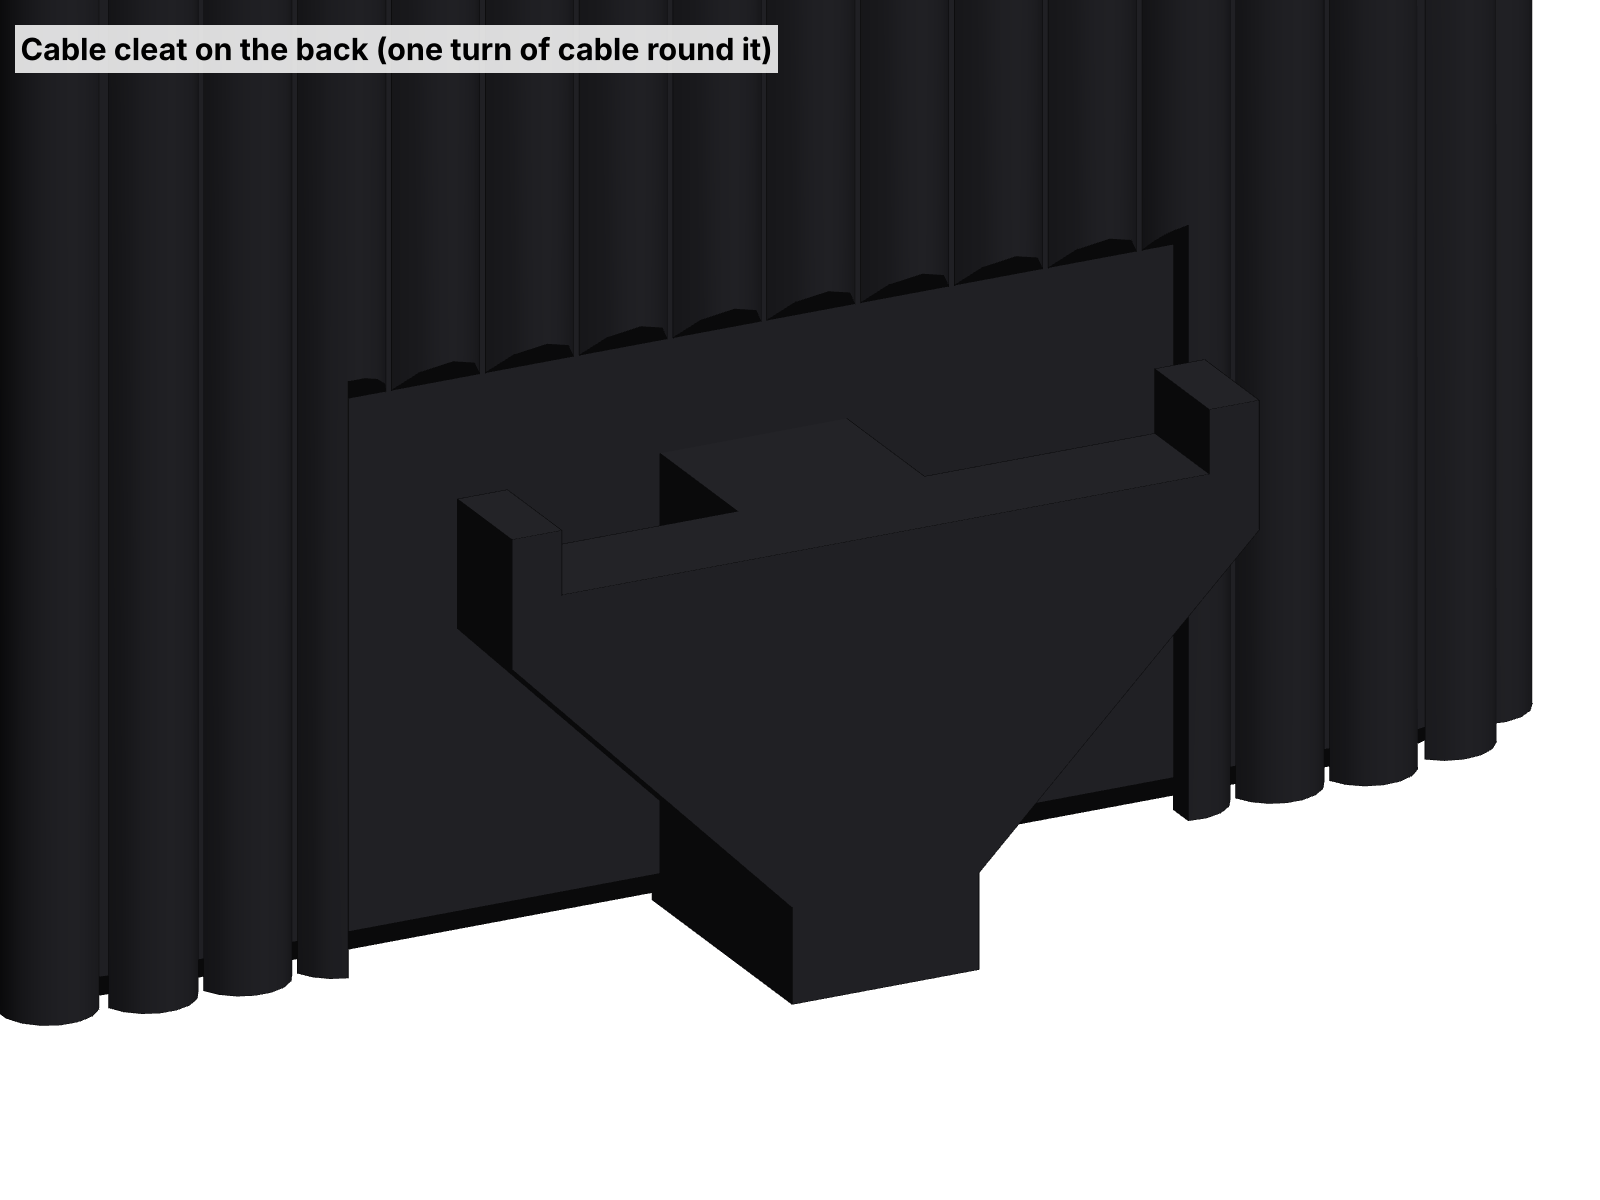
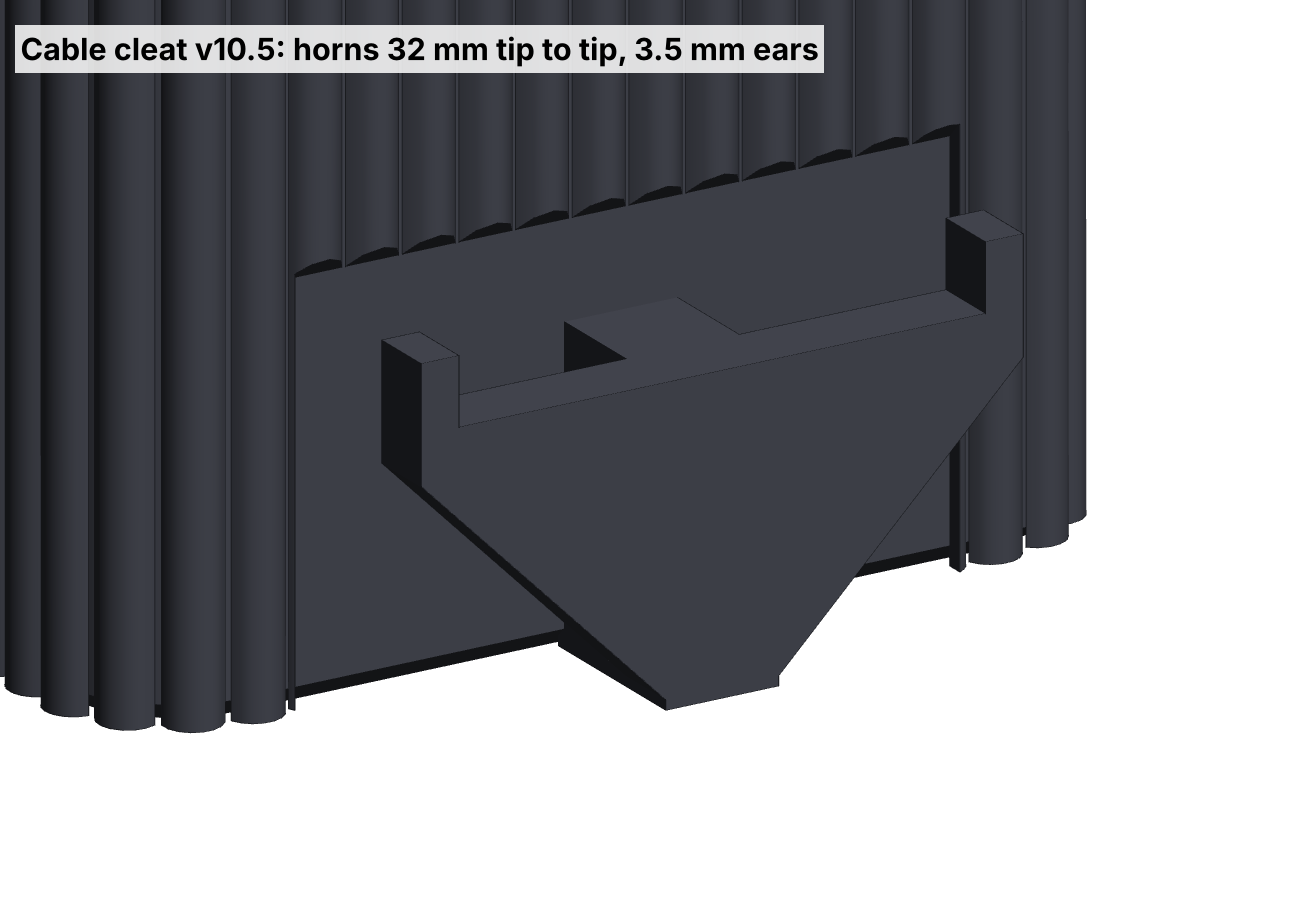
v10.5: bigger cable cleat horns (32 mm tip to tip, 3.5 mm ears, 5.5 mm gap)
Claude-Session: https://claude.ai/code/session_01LW7dNkPFWNphqvwFHeDcLz

diff --git a/enclosure/params.py b/enclosure/params.py
@@ -668,3 +668,11 @@ CARRIER_MARKING = True               # raised FRONT / USB-C arrows on the counte
 CARRIER_MARK_H = 0.4
 SWITCH_WALL_Y = 4.0                  # switch 4 mm back (still under the USB-C bay): room on both sides now
 SWITCH_MOUTH_CHAMFER = 0.6
+
+# ---- v10.5 (Paul): bigger cleat horns, more to hook the cable onto
+CLEAT_HORN_L = 13.0                  # each horn beyond the stem (was 9): 32 mm tip to tip
+CLEAT_EAR = 3.5                      # turned-up tip height (was 2)
+CLEAT_EAR_W = 2.0                    # turned-up tip width (was 1.6)
+CLEAT_GAP = 5.5                      # horns to wall (was 5)
+CLEAT_TIP_T = 2.5                    # horn depth at the tip (was 2)
+CLEAT_Z_TOP = 16.0                   # horn tops (was 14): keeps the 45 deg undersides off the desk

diff --git a/enclosure/lfcase/enclosure.py b/enclosure/lfcase/enclosure.py
@@ -1029,7 +1029,8 @@ def cable_cleat_features(b, zb):
         xr = xc + s_ * sw / 2
         xt = xr + s_ * hl
         # horn profile in XZ: top flat at zt (+ ear at the tip), underside rising 45 deg from the stem to the tip
-        prof = [(xr, zt - tip - hl), (xt, zt - tip), (xt, zt + ear), (xt - s_ * 1.6, zt + ear), (xt - s_ * 1.6, zt), (xr, zt)]
+        ew = getattr(P, "CLEAT_EAR_W", 1.6)
+        prof = [(xr, zt - tip - hl), (xt, zt - tip), (xt, zt + ear), (xt - s_ * ew, zt + ear), (xt - s_ * ew, zt), (xr, zt)]
         w = cq.Wire.makePolygon([cq.Vector(x, y1 + g, z) for x, z in prof], close=True)
         parts.append(cq.Solid.extrudeLinear(cq.Face.makeFromWires(w), cq.Vector(0, t, 0)))
     cleat = parts[0]

diff --git a/enclosure/CHANGELOG.md b/enclosure/CHANGELOG.md
@@ -1,5 +1,12 @@
 # Enclosure changelog
 
+## Phase 2 v10.5 (2026-11-11)
+- Paul: the cleat horns need to be bigger, with more to hook the cable onto. Horns 13 mm each side of the stem
+  (was 9), so 32 mm tip to tip (was 24). The turned-up ears are 3.5 mm tall x 2 mm (were 2 x 1.6). The gap behind
+  the horns for the cable is 5.5 mm (was 5), and the horn tips are 2.5 mm thick (were 2). The horn tops are at
+  16 mm (were 14) so the longer 45 deg undersides stay 0.5 mm off the desk. Prints with no support (checked on
+  the ribbed, panel and smooth bases). The no-cleat bases are unchanged.
+
 ## Phase 2 v10.4 (2026-11-11)
 - Paul: the three plate screws were very hard to line up (two would, the third wouldn't). Measured in the
   assembled model first: every tab hole is exactly on its post's pilot axis (offset 0.000 mm, angle 0.000 deg, both
